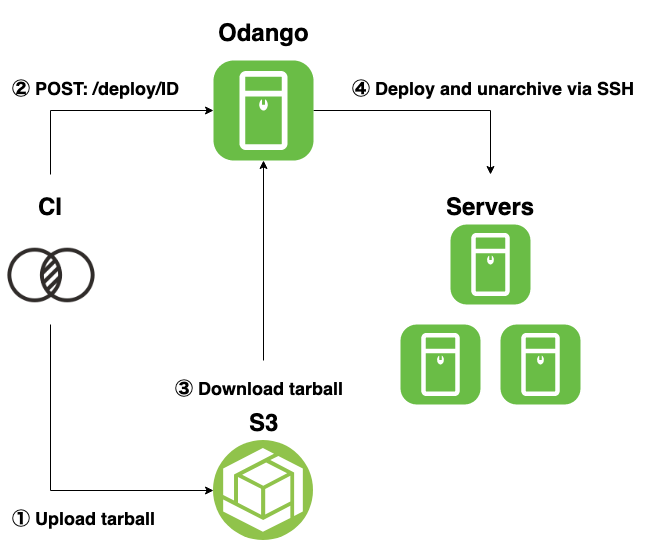
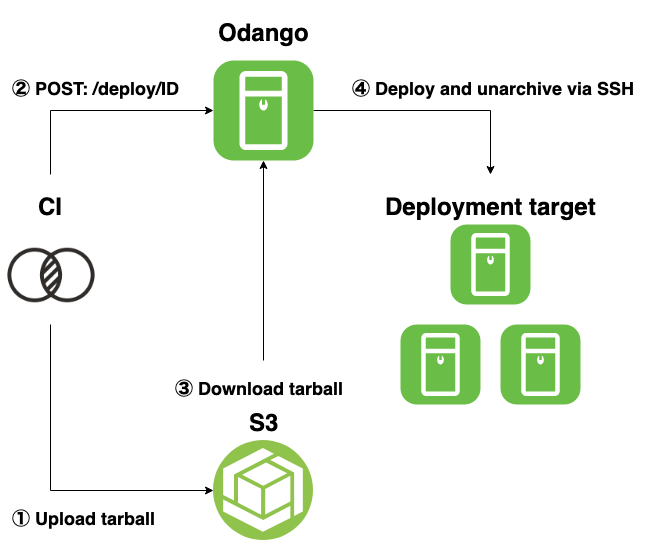
Add requirements

Changed region(s): [[0.5837, 0.3536, 0.9217, 0.4125]]

diff --git a/README.md b/README.md
@@ -14,6 +14,12 @@ Upload the file from CI to obejct storage and odango will handle it for you.
 
 CI task is only ①. Odango handles ② to ④.
 
+## Requirements
+
+- CI or something to uplad tarball for S3 (or S3 compatible object storage)
+- Create Odango server (LINUX recommended)
+- Allow Odango server to SSH to Deployment target
+
 ## Usage
 
 ### Configuration
